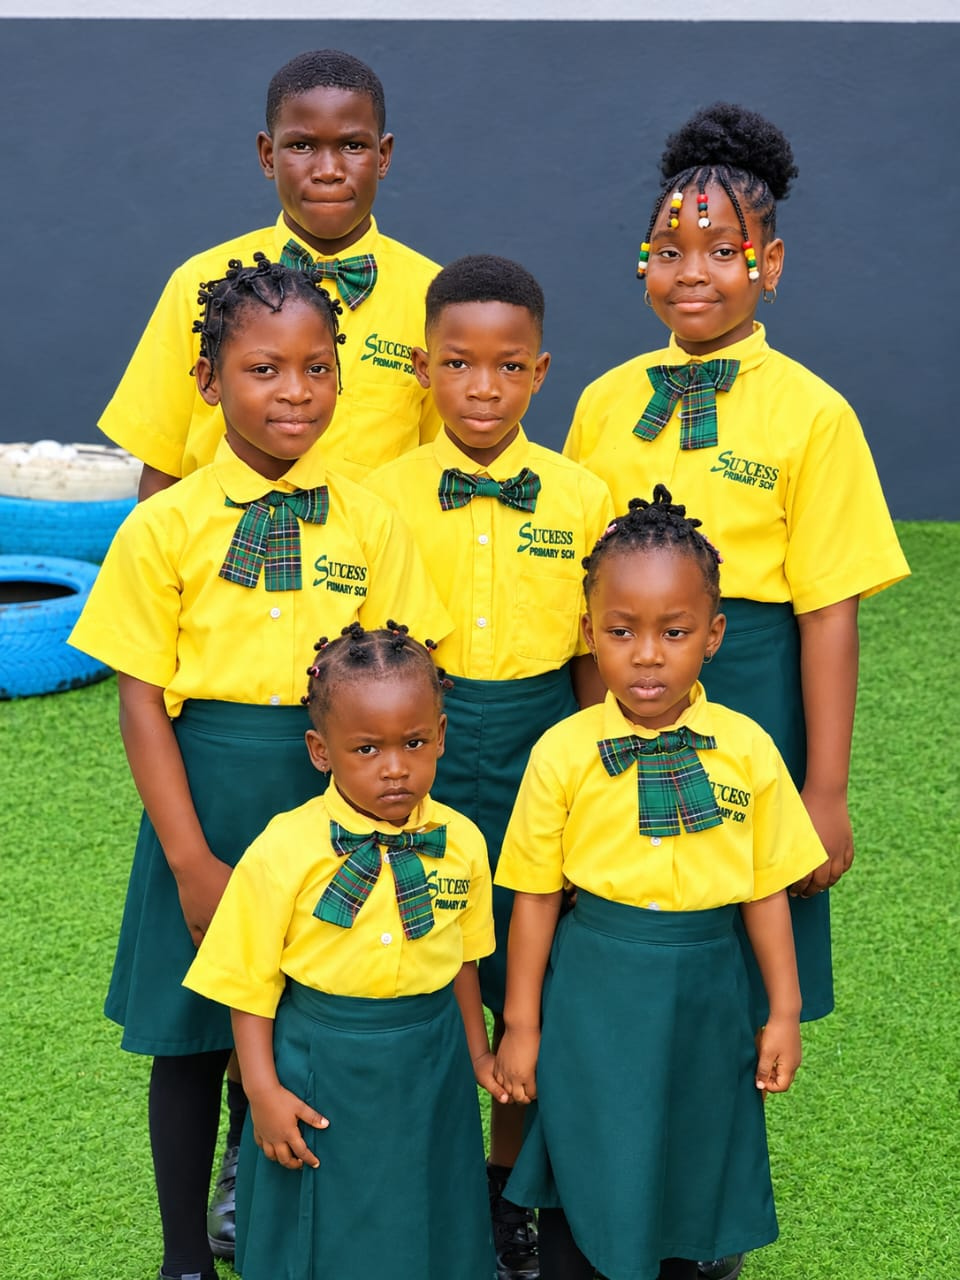
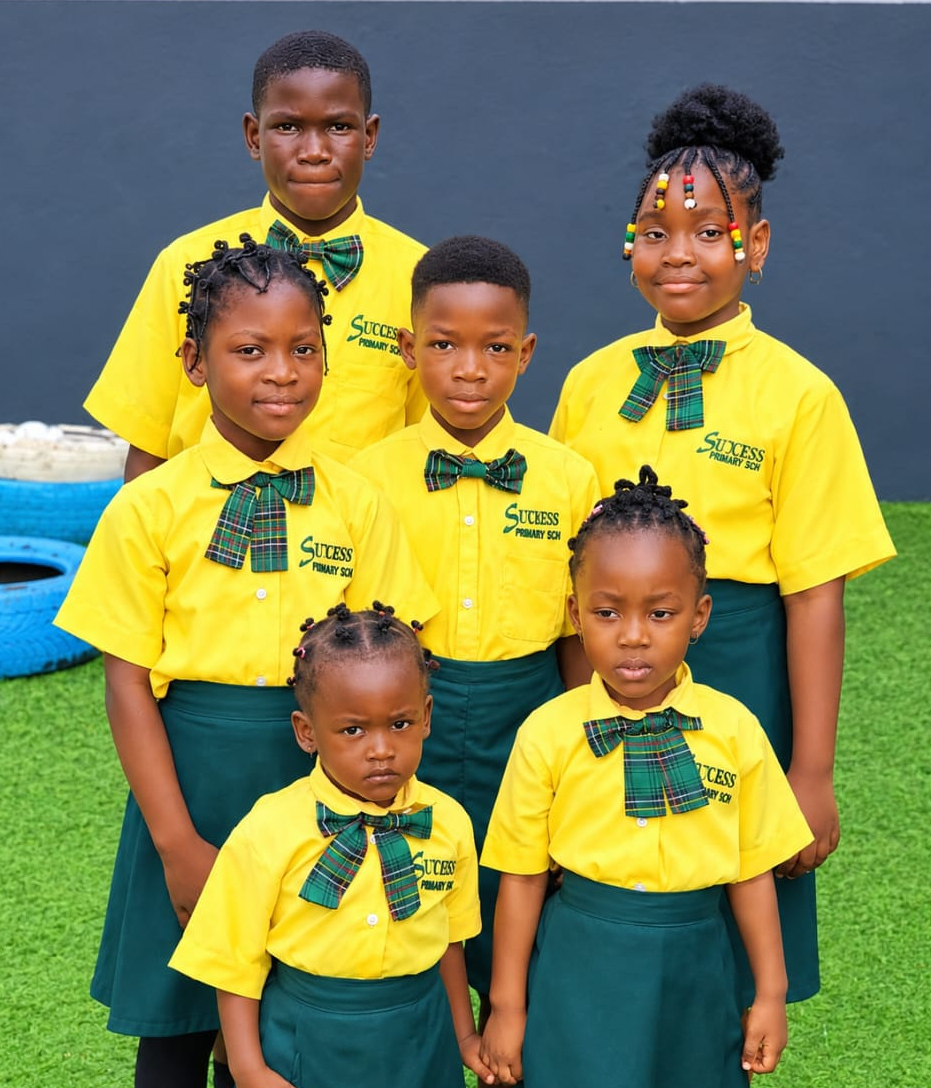
first commit

diff --git a/src/styles.css b/src/styles.css
@@ -116,29 +116,33 @@ h3 { font-size: 1.6rem; letter-spacing: -0.015em; }
   linear-gradient(90deg, rgba(6,32,24,0.92) 0%, rgba(6,32,24,0.74) 36%, rgba(6,32,24,0.28) 68%, rgba(6,32,24,0.12) 100%),
   linear-gradient(0deg, rgba(6,32,24,0.65) 0%, transparent 38%); }
 
-/* Portrait hero (primary): photo kept upright on the right, full group visible */
+/* Portrait hero (primary): upright photo, all faces visible, no empty turf */
 .hfg { display: none; }
 @media (min-width: 900px) {
   .hslide.portrait .hbg {
-    background: linear-gradient(115deg, #06221a 0%, #0c3a2b 45%, #145a40 100%);
+    background:
+      radial-gradient(ellipse 80% 70% at 70% 40%, rgba(20, 90, 64, 0.35), transparent 60%),
+      linear-gradient(115deg, #041a14 0%, #0a2f24 42%, #0f4a35 100%);
   }
   .hslide.portrait .hbg-img { display: none; }
   .hslide.portrait .hbg::after { display: none; }
   .hfg {
     display: block;
     position: absolute;
-    top: 0;
-    right: 0;
-    bottom: 0;
-    width: min(46%, 520px);
-    height: 100%;
+    top: 50%;
+    right: max(2.5rem, 4vw);
+    transform: translateY(-50%);
+    width: min(42%, 440px);
+    height: min(88%, 640px);
     object-fit: cover;
-    object-position: 50% 42%;
-    border-radius: 0;
-    -webkit-mask-image: linear-gradient(90deg, transparent 0%, rgba(0,0,0,0.55) 8%, #000 22%);
-    mask-image: linear-gradient(90deg, transparent 0%, rgba(0,0,0,0.55) 8%, #000 22%);
+    object-position: 50% 28%;
+    border-radius: 18px;
+    box-shadow:
+      0 24px 48px rgba(0, 0, 0, 0.35),
+      0 0 0 1px rgba(255, 255, 255, 0.08);
   }
-  .hslide.portrait .hcopy-in { max-width: 520px; }
+  .hslide.portrait .hcopy { align-items: center; }
+  .hslide.portrait .hcopy-in { max-width: 500px; }
 }
 
 .hcopy { position: absolute; inset: 0; display: flex; align-items: center; padding-bottom: 4.5rem; }
@@ -175,6 +179,8 @@ h3 { font-size: 1.6rem; letter-spacing: -0.015em; }
   .hlead { font-size: 1.05rem; margin-top: 1rem; }
   .hactions { margin-top: 1.5rem; }
   .arrows { display: none; }
+  /* On mobile portrait slides use full-bleed; favour faces over floor */
+  .hslide.portrait .hbg-img { object-position: 50% 28% !important; }
 }
 
 /* Values band */

diff --git a/src/data.ts b/src/data.ts
@@ -207,7 +207,7 @@ export const slides = [
   },
   {
     img: "/hero-primary.jpg",
-    pos: "50% 42%",
+    pos: "50% 28%",
     tag: "",
     short: "03",
     title: "Foundations that last.",
